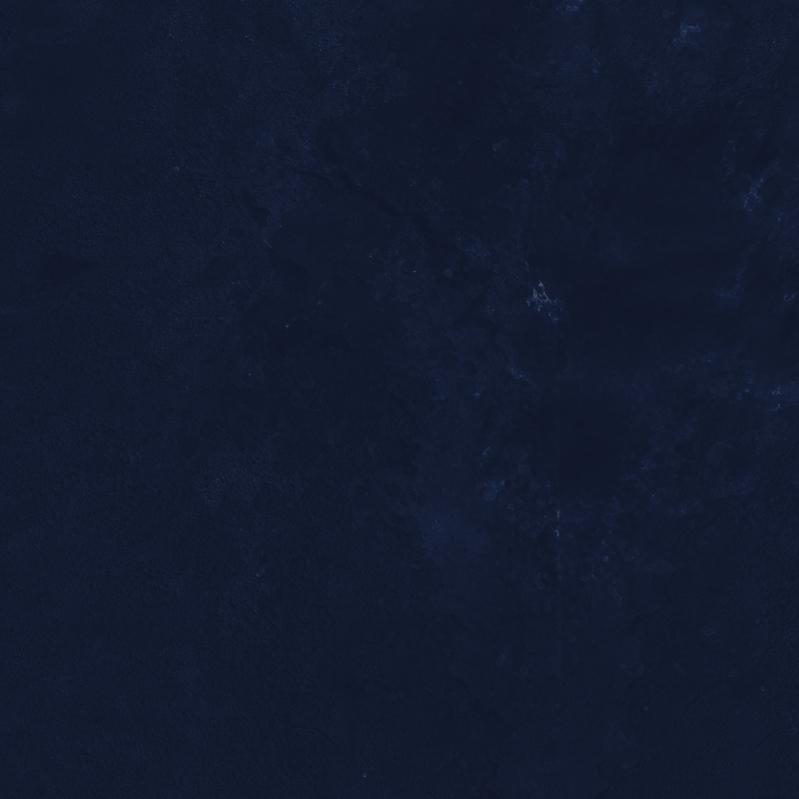
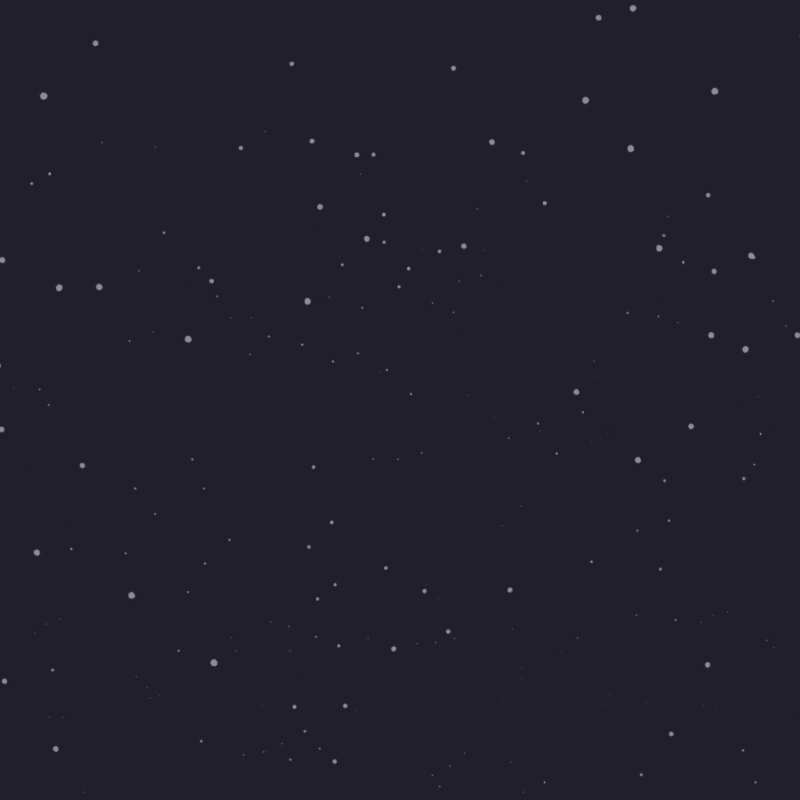
Tweak background style

diff --git a/css/module/_base.scss b/css/module/_base.scss
@@ -3,7 +3,8 @@ html {
 }
 
 body {
-  background: url(../images/bg.jpg); 
+  background-image: url(../images/bg.jpg);
+  background-size: 400px;
 	height: 100%;
 	margin: 0;
 	padding: 0;
